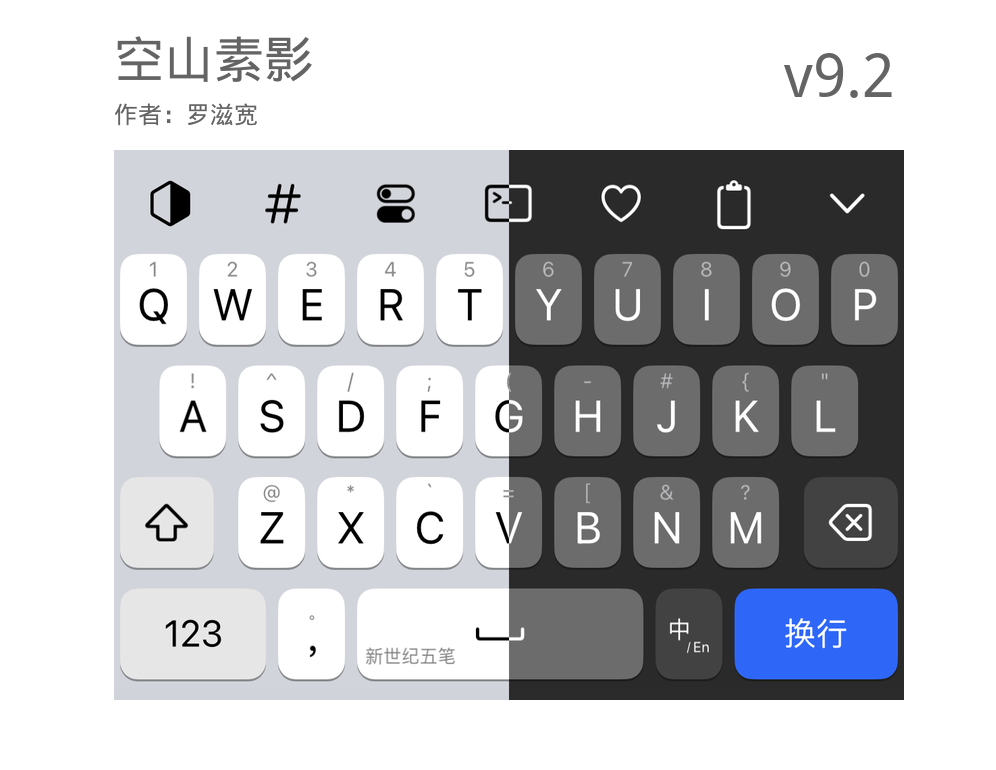
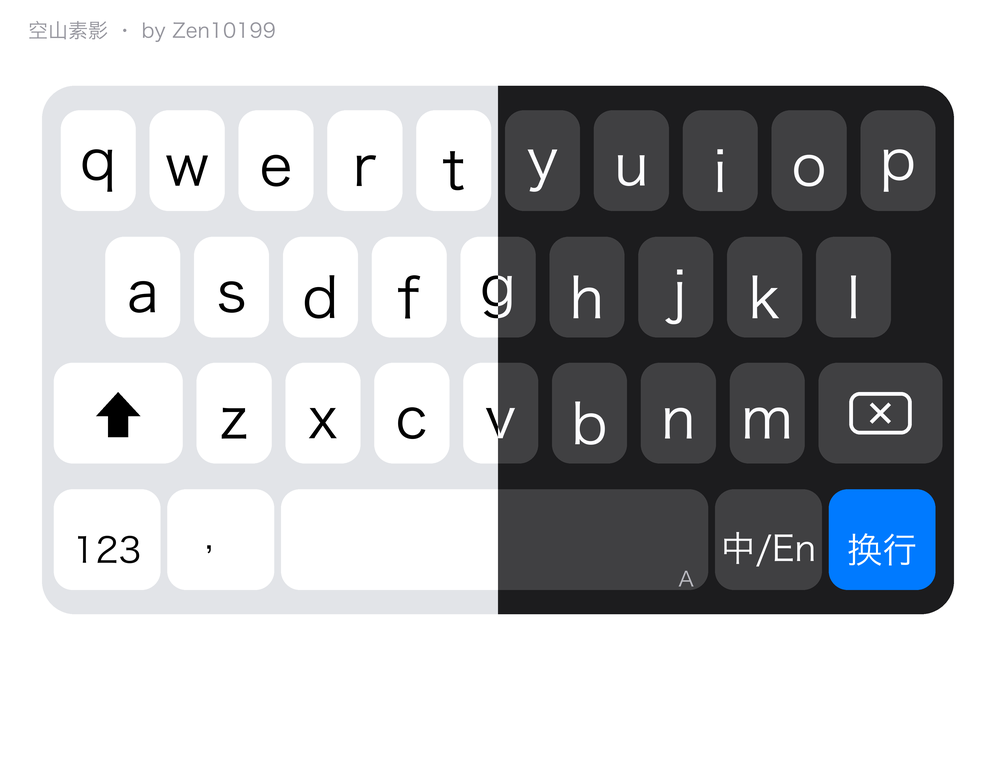
ios polish batch: press animation, subtle shadow, optional key sound and backspace clear, new demo, docs

diff --git a/tools/gen_demo.py b/tools/gen_demo.py
@@ -1,0 +1,129 @@
+# -*- coding: utf-8 -*-
+# 空山素影预览图：一个键盘从中线分割左浅右深（iOS 化配色），4 倍超采样
+from PIL import Image, ImageDraw, ImageFont
+
+W, H = 996, 770
+FONT = '/System/Library/Fonts/Hiragino Sans GB.ttc'
+
+def font(sz):
+    return ImageFont.truetype(FONT, sz)
+
+def render_keyboard(kw, dark):
+    scale = kw / 390
+    if dark:
+        panel = (28, 28, 30, 255)      # 黑色 App 背景（底板透明）
+        key_fill = (64, 64, 66, 255)   # #FFFFFF29 叠黑底
+        text = (252, 252, 254, 255)
+        hint = (185, 185, 192, 255)
+        ret_fill = (0, 122, 255, 255)
+        tag = 'A'
+    else:
+        panel = (226, 228, 232, 255)
+        key_fill = (255, 255, 255, 255)
+        text = (0, 0, 0, 255)
+        hint = (120, 120, 128, 255)
+        ret_fill = (0, 122, 255, 255)
+        tag = '拼'
+
+    row_h = round(scale * 54)
+    key_h = row_h - round(scale * 11)
+    radius = round(scale * 8)
+    gap = round(scale * 3)
+    pad = round(scale * 5)
+    pad_h = round(scale * 5)
+    kh = row_h * 4 + pad * 2
+
+    im = Image.new('RGBA', (kw, kh), (0, 0, 0, 0))
+    od = ImageDraw.Draw(im)
+    od.rounded_rectangle([0, 0, kw - 1, kh - 1], round(scale * 14), fill=panel)
+
+    f_main, f_hint, f_key = font(round(scale * 24)), font(round(scale * 9)), font(round(scale * 15))
+
+    def key(cx, cy, w, label=None, face=False, fill=key_fill, tc=text, corner_label=None):
+        x, y = cx - w / 2, cy - key_h / 2
+        od.rounded_rectangle([x, y, x + w, y + key_h], radius, fill=fill)
+        if face:
+            r = key_h * 0.28
+            od.ellipse([cx - r, cy - r, cx + r, cy + r], fill=(255, 214, 10, 255))
+            er = r * 0.16
+            for ex in (cx - r * 0.42, cx + r * 0.42):
+                od.ellipse([ex - er, cy - r * 0.3 - er, ex + er, cy - r * 0.3 + er], fill=(60, 40, 10, 255))
+            od.arc([cx - r * 0.5, cy - r * 0.25, cx + r * 0.5, cy + r * 0.55], 20, 160,
+                   fill=(60, 40, 10, 255), width=max(2, round(r * 0.14)))
+        if label:
+            is_letter = len(label) == 1 and label.isascii() and label.isalpha()
+            f = f_main if is_letter else f_key
+            bb = od.textbbox((0, 0), label, font=f)
+            od.text((cx - (bb[2] - bb[0]) / 2 - bb[0], cy + key_h * 0.10 - (bb[3] - bb[1]) / 2 - bb[1]),
+                    label, font=f, fill=tc)
+        if corner_label:
+            bb = od.textbbox((0, 0), corner_label, font=f_hint)
+            od.text((cx - (bb[2] - bb[0]) / 2 - bb[0], y + max(1, round(key_h * 0.05)) - bb[1]),
+                    corner_label, font=f_hint, fill=hint)
+
+    xL, xR = pad_h, kw - pad_h
+    unit = (xR - xL) / 10
+    yc = lambda r: pad + r * row_h + row_h / 2
+
+    for ri, row in enumerate(['qwertyuiop', 'asdfghjkl']):
+        off = unit / 2 if ri == 1 else 0
+        for i, ch in enumerate(row):
+            key(xL + off + i * unit + unit / 2, yc(ri), unit - gap * 2, ch)
+
+    # 第三行 shift zxcvbnm delete
+    cy = yc(2)
+    w_shift = unit * 1.45
+    key(xL + w_shift / 2, cy, w_shift)
+    ax, ar, ah = xL + w_shift / 2, key_h * 0.22, key_h * 0.3
+    od.polygon([(ax, cy - ah * 0.7), (ax - ar, cy + ah * 0.1), (ax - ar * 0.45, cy + ah * 0.1),
+                (ax - ar * 0.45, cy + ah * 0.8), (ax + ar * 0.45, cy + ah * 0.8),
+                (ax + ar * 0.45, cy + ah * 0.1), (ax + ar, cy + ah * 0.1)], fill=text)
+    for i, ch in enumerate('zxcvbnm'):
+        key(xL + w_shift + gap + i * unit + unit / 2, cy, unit - gap * 2, ch)
+    x_del = xL + w_shift + gap + 7 * unit + gap
+    w_del = xR - x_del
+    key(x_del + w_del / 2, cy, w_del)
+    bx, by, bw, bh = x_del + w_del / 2, cy, key_h * 0.62, key_h * 0.42
+    lw = max(2, round(scale * 1.6))
+    od.rounded_rectangle([bx - bw / 2, by - bh / 2, bx + bw / 2, by + bh / 2], round(bh * 0.25), outline=text, width=lw)
+    xr = bh * 0.22
+    od.line([(bx - xr, by - xr), (bx + xr, by + xr)], fill=text, width=lw)
+    od.line([(bx - xr, by + xr), (bx + xr, by - xr)], fill=text, width=lw)
+
+    # 第四行（空山布局）：123 、逗号、空格(右下 拼/A)、中/En、换行
+    cy = yc(3)
+    w_fn = unit * 1.2
+    key(xL + w_fn / 2, cy, w_fn, '123')
+    x2 = xL + w_fn + gap
+    key(x2 + w_fn / 2, cy, w_fn, '，')
+    x_ret = xR - w_fn - gap
+    key(x_ret + w_fn / 2, cy, w_fn, '换行', fill=ret_fill, tc=(255, 255, 255, 255))
+    x4 = x_ret - gap - w_fn
+    key(x4 + w_fn / 2, cy, w_fn, '中/En')
+    x_sp = x2 + w_fn + gap
+    w_sp = x4 - gap - x_sp
+    key(x_sp + w_sp / 2, cy, w_sp)
+    bb = od.textbbox((0, 0), tag, font=f_hint)
+    od.text((x_sp + w_sp - (bb[2] - bb[0]) - gap * 2 - bb[0],
+             cy + key_h / 2 - (bb[3] - bb[1]) - round(gap * 0.4) - bb[1]), tag, font=f_hint, fill=hint)
+    return im
+
+SS = 4
+margin = 42
+kw = (W - margin * 2) * SS
+light_kb = render_keyboard(kw, dark=False)
+dark_kb = render_keyboard(kw, dark=True)
+mid = kw // 2
+
+big = Image.new('RGBA', (W * SS, H * SS), (255, 255, 255, 255))
+ky = round((H * SS - light_kb.height - 70 * SS) / 2)
+big.alpha_composite(light_kb.crop((0, 0, mid, light_kb.height)), (margin * SS, ky))
+big.alpha_composite(dark_kb.crop((mid, 0, kw, dark_kb.height)), (margin * SS + mid, ky))
+
+draw = ImageDraw.Draw(big)
+f_sign = font(20 * SS)
+draw.text((28 * SS, 20 * SS), '空山素影 · by Zen10199', font=f_sign, fill=(150, 150, 158, 255))
+
+big.resize((W, H), Image.LANCZOS).convert('RGB').save(
+    '/Users/zhudewei/Documents/必备软件/输入法/元书皮肤/kongshan-suying/demo.png', 'PNG')
+print('生成完成', (W, H))

diff --git a/tools/gen_sound.py b/tools/gen_sound.py
@@ -1,0 +1,41 @@
+# -*- coding: utf-8 -*-
+# 合成三枚干净的按键音 wav（元书皮肤 keySound 仅支持 wav/aiff）
+# input: 短促高频 tick；system: 略低频 tock；delete: 双击感
+import math
+import os
+import struct
+import wave
+
+SR = 44100
+
+def tick(freq, dur_ms, amp=0.6):
+    n = int(SR * dur_ms / 1000)
+    out = []
+    for i in range(n):
+        t = i / SR
+        env = math.exp(-t / (dur_ms / 1000 / 4))
+        out.append(amp * env * math.sin(2 * math.pi * freq * t))
+    return out
+
+def write_wav(path, samples):
+    with wave.open(path, 'w') as w:
+        w.setnchannels(1)
+        w.setsampwidth(2)
+        w.setframerate(SR)
+        frames = b''.join(struct.pack('<h', max(-32767, min(32767, int(x * 32767)))) for x in samples)
+        w.writeframes(frames)
+
+def silence(ms):
+    return [0.0] * int(SR * ms / 1000)
+
+os.makedirs(os.path.join(os.path.dirname(__file__), '..', 'sound'), exist_ok=True)
+base = os.path.join(os.path.dirname(__file__), '..', 'sound')
+
+# 输入键：明亮的短 tick
+write_wav(os.path.join(base, 'input.wav'), tick(4200, 14, 0.55))
+# 系统键：稍低沉的 tock
+write_wav(os.path.join(base, 'system.wav'), tick(2600, 18, 0.5))
+# 删除键：紧凑双击
+write_wav(os.path.join(base, 'delete.wav'), tick(3600, 10, 0.5) + silence(30) + tick(3000, 12, 0.45))
+
+print('三枚音效已生成到 sound/')

diff --git a/README.md b/README.md
@@ -4,13 +4,18 @@
 - 符号键盘布局包括默认、全键盘、分类符号等布局。
 - 不包含图片资源，风格接近原生键盘。
 - 工具栏滑动按钮自定义，方便快速对工具栏进行个性化设置，且可以设置为纯文本工具栏。
-- 空格键显示当前输入方案名称，方便查看当前输入方案。
+- 空格键右下角显示中英指示「拼/A」或输入方案名称（可配置），随时知道当前输入状态。
 - 中文模式下字母键大写显示，英文模式下字母键小写显示，是中文还是英文一目了然。
 - shift 键在打字过程中充当“反查”功能（反查符号为输入反引号 `，可以在“微调”中调整为其它符号）。
 - 支持按键上下划动功能，26键盘布局可以输入 PC 键盘上的所有符号，可快速设置是否显示划动提示文字。
 - a,z,x,c,v 五个按键下划对应全选、撤销、剪切、复制、粘贴，与 PC 键盘习惯一致。
 - 按键支持特定的自定义语法，可以非常简单地实现各种按键功能。
-- 主题色可选，满足不同用户的审美需求。
+- 主题色可选（iOS 系统色：红绿橙蓝紫），满足不同用户的审美需求。
+- 键盘配色 iOS 风格化：玻璃质感键帽（浅色 85% 白 / 深色半透明白），按下浅色变暗、深色提亮，配 iOS 式按压缩放动画（轻缩 0.96、快按缓弹）。
+- 空格键可显示中英指示「拼/A」（随中英切换实时刷新，含独立英文键盘），或输入方案名称，见「微调」中 spaceButtonDisplay。
+- 工具栏滑动按钮：默认顺序 符号键盘/RimeSwitcher/脚本/剪贴板/命令视图(⌘)，全部 28 个按钮代号可自由配置。
+- 删除键打字中上滑默认删除一个音节，可配置为清空输入框全部内容（backspaceSwipeUpWhenComposing）。
+- 可选按键音（keySound，默认关闭，皮肤自带合成音效）。
 - 可以使用浮动面板中的“微调”功能对皮肤进行快速调整。
 
 ## 上下划动功能说明
@@ -62,6 +67,7 @@ jsonnet -S -m . --tla-code debug=true ./jsonnet/main.jsonnet
 ```
 
 ## github 仓库地址
-- [空山素影](https://github.com/luozikuan/kongshan-suying)
-- [最新版本发布地址](https://github.com/luozikuan/kongshan-suying/releases/latest)
+- [空山素影（本仓库）](https://github.com/Zen10199/kongshan-suying)
+- [最新版本发布地址](https://github.com/Zen10199/kongshan-suying/releases/latest)
+- [上游原仓库](https://github.com/luozikuan/kongshan-suying)
 - [配套测试方案](https://github.com/luozikuan/rime-tailor)
